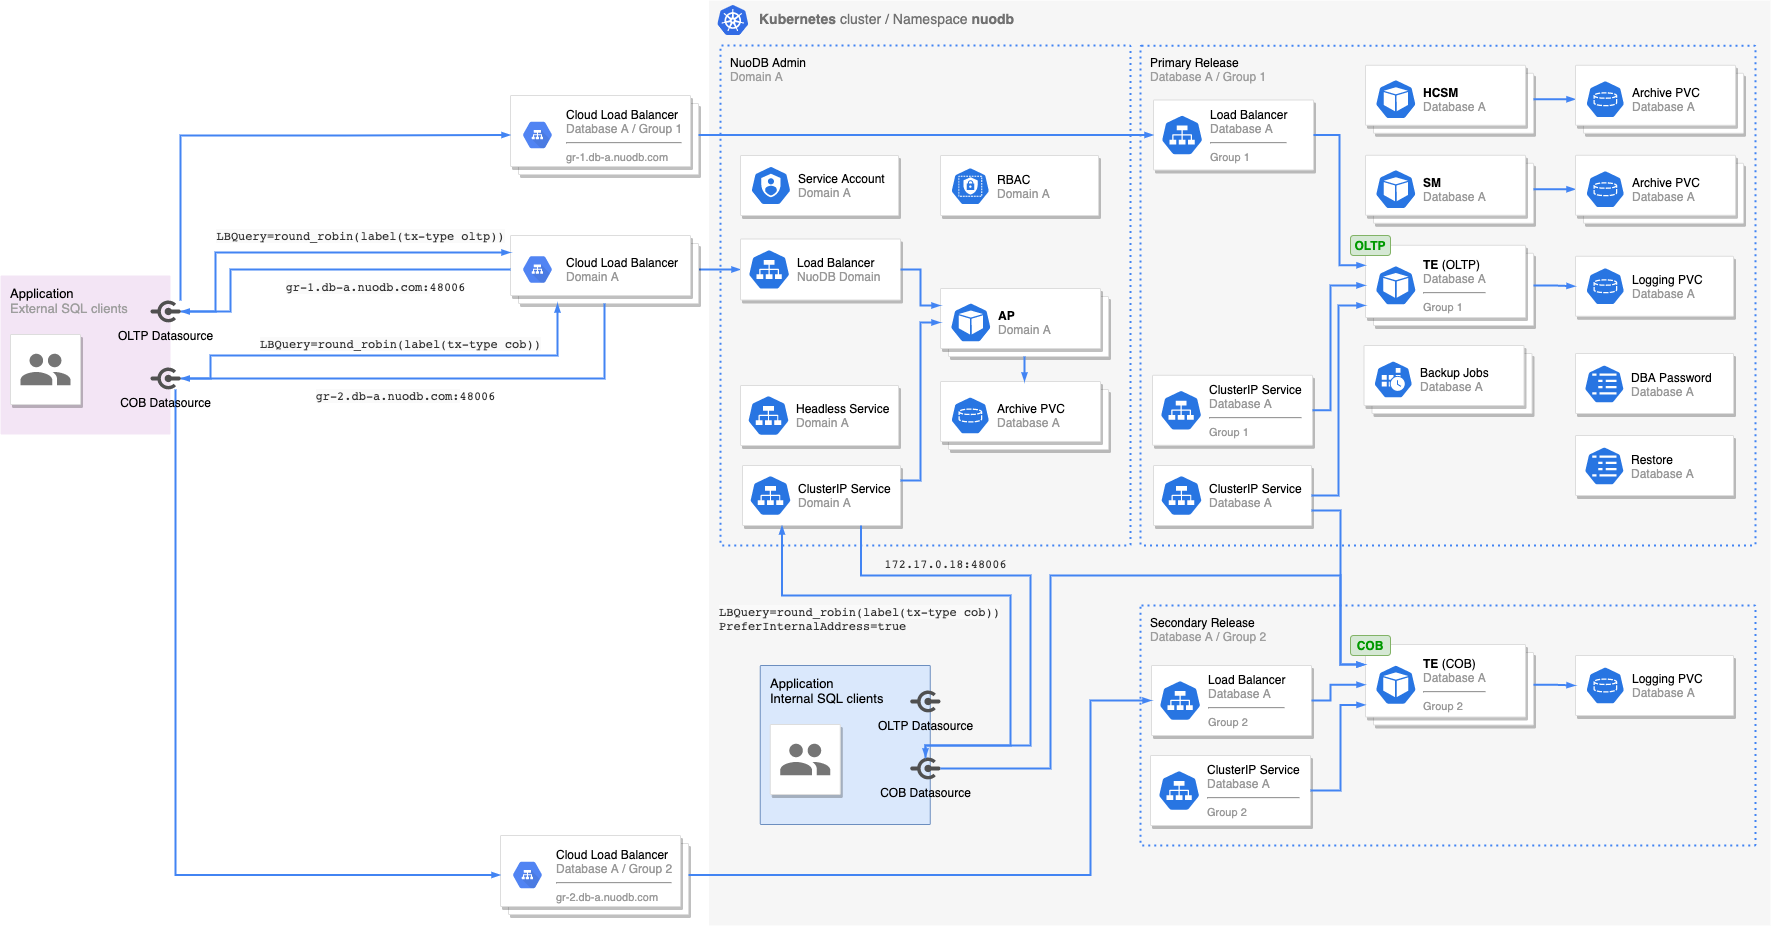
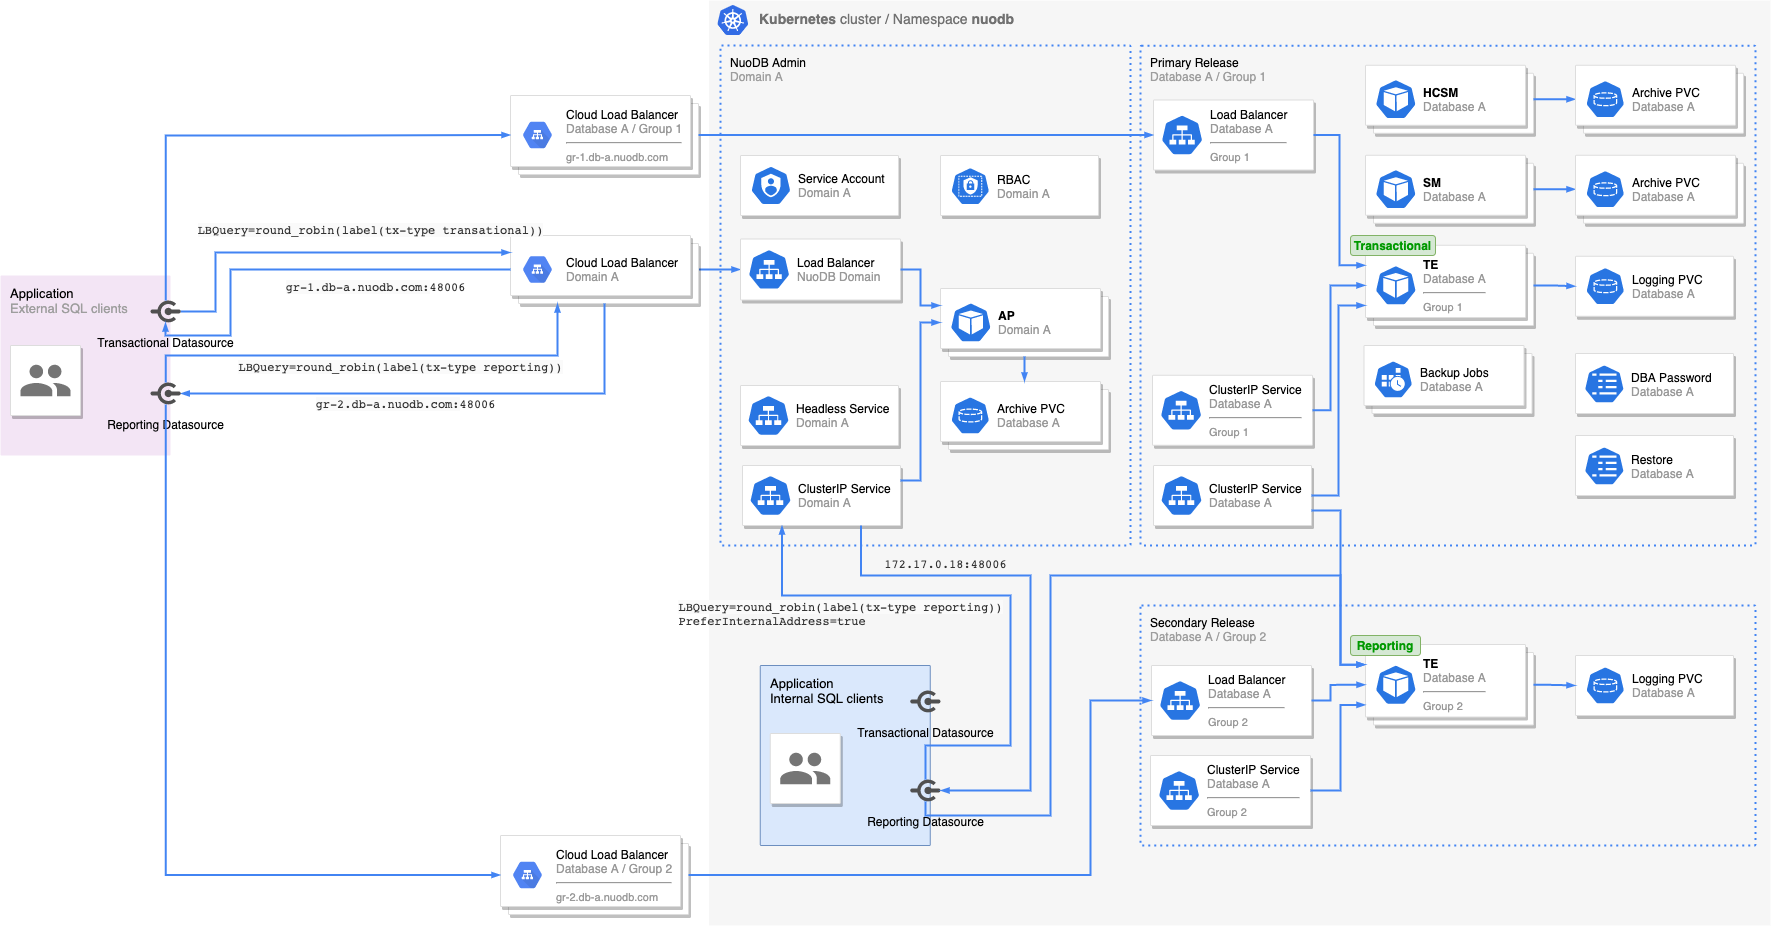
Address review comments and suggestions

diff --git a/docs/HowToConnectExternally.md b/docs/HowToConnectExternally.md
@@ -2,15 +2,18 @@
 
 ## Introduction
 
-NuoDB supports SQL interface used by the client applications to connect to the database.
-The connection protocol used by the NuoDB drivers is a two-stage process.
-First, the driver establishes a connection with the NuoDB Admin which provides the driver with Transaction Engine (TE) connection information.
-A new connection is established to the provided TE. After completing the client protocol, the connection can be used by the application to execute SQL statements.
-The two-stage connection protocol allows the configuration of flexible and rich connection load balancing rules.
-The `LBQuery` expression syntax can be used to specify the set of suitable TEs to service SQL clients and the strategy used to distribute connections to these TEs among SQL clients.
-A _direct_ connection towards TEs is also supported, however, the connection load balancing must be done by the client application.
+NuoDB supports SQL clients via a NuoDB-provided client driver such as JDBC.
+NuoDB provides a configurable internal load balancer which can direct clients to Transaction Engines (TEs) according to user-specified load balancing rules.
+This enables the administrator to direct different client workloads to different pools of TEs in order to maximize cache locality and execute certain workloads on a TE with the best configuration for that workload.
 
-For more information on NuoDB client connections, check [Client Development](https://doc.nuodb.com/nuodb/latest/client-development/).
+When a SQL client connects to a database, the driver first establishes a connection with the NuoDB Admin, which will perform load balancing and redirect the client to an appropriate TE in that database.
+Load balancing can be configured using the powerful `LBQuery` language to define the database connection strategy for routing SQL clients to the most appropriate TEs.
+
+For more information on NuoDB client connections, see [Client Development](https://doc.nuodb.com/nuodb/latest/client-development/).
+
+For more information on the LBQuery language syntax, see [Load Balancer Policies](https://doc.nuodb.com/nuodb/latest/client-development/load-balancer-policies/).
+
+A _direct_ connection to TEs is also supported by NuoDB; however, in this case load balancing must be performed by the client application.
 
 SQL clients and applications running in the same Kubernetes cluster as the NuoDB domain can connect to the database with the default NuoDB Helm Charts configuration using the NuoDB Admin `ClusterIP` service or directly using the TE `ClusterIP` service. This document focuses on external client applications running outside of the Kubernetes cluster where the NuoDB database is hosted. Allowing external access to the NuoDB database is not enabled by default and requires additional configuration.
 
@@ -23,57 +26,66 @@ Multiple deployments of the `database` chart for the same NuoDB database can be 
 One or more _secondary_ Helm releases are used to deploy additional TE groups for the same database with different configuration options.
 This allows flexible configuration of each TE group including but not limited to the number of TEs in a group, their resource requirements, process labels, and scheduling rules.
 SQL clients can be configured to target each TE group separately using NuoDB Admin load balancer rules.
-Specifying the type of the Helm `database` release is controlled by `database.primaryRelease` option (`true` by default).
+Specifying the type of the Helm `database` release is controlled by the  `database.primaryRelease` option (`true` by default).
 
 ## External Access for TE Groups
 
-External access for the NuoDB database is _not_ enabled by default and is supported when using NuoDB Helm Charts 3.4.0+ and NuoDB 4.2.4+.
-To enable external access to NuoDB domain and database set the `admin.externalAccess.enabled=true` and `database.te.externalAccess.enabled=true` options.
+External access for the NuoDB database is _not_ enabled by default.
+To enable external access to the NuoDB domain and database, set the `admin.externalAccess.enabled=true` and `database.te.externalAccess.enabled=true` options.
+Configuring external database access via the NuoDB Admin with TE groups is supported with NuoDB Helm Charts 3.4.0+ and NuoDB 4.2.4+.
+In earlier versions, it is only possible to connect to the provisioned TEs directly and bypass the NuoDB Admin.
 
 A Kubernetes service of type `LoadBalancer` or `NodePort` is created per TE group.
-The Kubernetes cluster should be properly configured so that the external network (Layer4) cloud load balancer is provisioned automatically.
 This should allow the external SQL clients to connect to the TEs backing the service by uniquely targeting each TE group.
 Most of the cloud vendors provide Kubernetes Load Balancer controllers that support different service annotations used to control the properties and configuration of the provisioned cloud load balancer.
+The Kubernetes cluster should be properly configured so that the external network (Layer4) cloud load balancer is provisioned automatically.
+For more information on additional cluster configuration, see [Cloud Provider Specifics](#cloud-provider-specifics).
 
 > **NOTE**: When external access is enabled, the NuoDB Helm Charts will create Internet-facing load balancers by default.
-This can be changed by setting the `admin.externalAccess.internalIP=true` and `database.te.externalAccess.internalIP=true` or further customized by explicitly configuring custom annotations for the Kubernetes services using `admin.externalAccess.annotations` and `database.te.externalAccess.annotations` options.
+
+If the SQL clients are located outside of the Kubernetes cluster where NuoDB is deployed but in the same cloud provider or virtual network, then it might be better to use an “internal” cloud load balancer.
+This is configured by setting the `admin.externalAccess.internalIP=true` and `database.te.externalAccess.internalIP=true` or further customized by explicitly setting custom annotations for the Kubernetes services using `admin.externalAccess.annotations` and `database.te.externalAccess.annotations` options.
 The user-provided custom annotations will overwrite the default annotations for the services.
 
-> **IMPORTANT**: It is a customer's responsibility to correctly configure security rules and restrict access to the cloud load balancers.
+> **IMPORTANT**: The customer is responsible for correctly configuring security rules and restricting access to the cloud load balancers.
 
 Services of type `NodePort` can be created as well by setting the `admin.externalAccess.type=NodePort` and `database.te.externalAccess.type=NodePort` options.
-For this type of deployment, it is required that a Layer4 load balancer is manually provisioned. It should be configured to load balance traffic across all worker nodes in the Kubernetes cluster.
+For this type of deployment, a Layer4 load balancer must be manually provisioned. It should also be configured to load balance traffic across all worker nodes in the Kubernetes cluster.
 The different TE groups will be reachable on different node ports.
 
 The external address and port for TEs are configured using the `external-address` and `external-port` process labels.
 If supplied, they will be advertised by NuoDB Admin to the SQL clients during the second stage of the client connection protocol.
-For more information, check [Use External Address](https://doc.nuodb.com/nuodb/latest/client-development/load-balancer-policies/#_use_external_address).
+For more information, see [Use External Address](https://doc.nuodb.com/nuodb/latest/client-development/load-balancer-policies/#_use_external_address).
 
-Obtaining and configuring the hostname or IP address of the L4 load balancers can be tedious and error-prone as they are provisioned asynchronously by the Kubernetes controllers.
+Obtaining and configuring the address of the L4 load balancers can be tedious and error-prone as they are provisioned asynchronously by the Kubernetes controllers.
 NuoDB can inspect the Kubernetes services and configure the TE database processes with the `external-address` and `external-port` process labels automatically if the `--enable-external-access` process option is provided.
 This simplifies the deployment and ensures the correct configuration of the TE database processes.
 
-> **NOTE**: If the hostname or the IP address of the provisioned cloud load balancer change over time, the TE database process needs to be restarted so that the new value comes into play.
+- For services of type `LoadBalancer`, NuoDB will configure the `external-address` process label with the service ingress IP or hostname as a value.
+- For services of type `NodePort` are provisioned, the customer must configure the  `external-address` and NuoDB will configure the `external-port` process label with the service node port as a value.
+If the `--enable-external-access` process option is supplied but the `external-address` process label is no defined, then external access won’t be enabled and a warning message will be logged.
+
+> **NOTE**: If either the hostname or the IP address value(s) of the provisioned cloud load balancer change, the TE database process must be restarted for the new value(s) to take effect.
 
 ## Examples
 
 To demonstrate the external access using TE groups, let's consider a working example with the following requirements:
 
-- NuoDB database is deployed in a single Kubernetes cluster.
-- Online Transaction Processing (OLTP) SQL workload should be processed by TEs in _group 1_.
-- Close of Business (COB) SQL workload should be processed by TEs in _group 2_.
+- A NuoDB database is deployed in a single Kubernetes cluster.
+- Transactional SQL workload should be processed by TEs in _group 1_.
+- Reporting SQL workload should be processed by TEs in _group 2_.
 - A set of the applications are installed in the same Kubernetes cluster as NuoDB.
 - Another set of the applications are installed in a different Kubernetes cluster, on bare metal, or in a different cloud.
 
 The resource requirements for the different TE groups may be different as there is a direct dependency on the type of SQL workload that TEs will serve.
-There will be 2 _smaller_ TEs dedicated for the _OLTP_ and 1 _bigger_ TE dedicated for the _COB_ workload deployed in _nuodb_ namespace.
+There will be 2 _smaller_ TEs dedicated for the _transactional_ and 1 _bigger_ TE dedicated for the _reporting_ workload deployed in _nuodb_ namespace.
 
-To satisfy the requirement of having several workloads targeting a different set of TEs, the `LBQuery` connection property with the correct syntax will be used.
-Alternatively, load balancer policies can be configured and SQL clients can reference them using `LBPolicy` connection property.
-For simplicity, `tx-type` database process label will be used to identify which workload is served by a set of TEs.
-The label value is either `oltp` or `cob`.
+To satisfy the requirement of having several workloads targeting a different set of TEs, the `LBQuery` connection property will be used.
+Alternatively, load balancer policies can be configured by an administrator and SQL clients can reference them using the `LBPolicy` connection property.
+For more information, see [Registering Named Load Balancer Policies](https://doc.nuodb.com/nuodb/latest/client-development/load-balancer-policies/#_registering_named_load_balancer_policies_lbpolicy).
 
-For more advanced load balancer configuration, check [Load Balancer Policies](https://doc.nuodb.com/nuodb/latest/client-development/load-balancer-policies/).
+For simplicity, the `tx-type` database process label will be used to filter which workload is served by a set of TEs using the `LBQuery` connection property.
+The label value is either `transactional` or `reporting`.
 
 NuoDB supports multi-tenant, multi-cluster, and multi-cloud database deployments using TE groups, however, for simplicity a single-cluster single-tenant deployment will be demonstrated here.
 The below diagram illustrates the deployed resources and SQL clients along with the `LBQuery` syntax.
@@ -82,7 +94,7 @@ The below diagram illustrates the deployed resources and SQL clients along with 
 
 ### Deployment
 
-The steps below will deploy NuoDB database with 2 TE groups in Google Kubernetes Engine (GKE).
+The steps below will deploy a NuoDB database with 2 TE groups in Google Kubernetes Engine (GKE).
 If you are deploying in a different environment, make sure that the correct cloud provider is set in the `cloud.provider` option.
 
 > **NOTE**: Use the `nuodb.image.tag` option to specify the NuoDB product version.
@@ -99,7 +111,7 @@ helm install admin nuodb/admin \
 ```
 
 Install the [database](../stable/database/README.md) chart for the primary Helm release which deploys TE _group 1_.
-Configure the `tx-type=oltp` label for the TEs in this group.
+Configure the `tx-type=transactional` label for the TEs in this group.
 
 ```shell
 helm install database-group1 nuodb/database \
@@ -113,11 +125,11 @@ helm install database-group1 nuodb/database \
     --set database.te.resources.limits.memory=8Gi \
     --set database.te.resources.requests.cpu=4 \
     --set database.te.resources.requests.memory=8Gi \
-    --set database.te.labels.tx-type=oltp
+    --set database.te.labels.tx-type=transactional
 ```
 
 Install the [database](../stable/database/README.md) chart for the secondary Helm release which deploys TE _group 2_.
-Configure the `tx-type=cob` label for the TEs in this group.
+Configure the `tx-type=reporting` label for the TEs in this group.
 
 ```shell
 helm install database-group2 nuodb/database \
@@ -132,7 +144,7 @@ helm install database-group2 nuodb/database \
     --set database.te.resources.limits.memory=16Gi \
     --set database.te.resources.requests.cpu=4 \
     --set database.te.resources.requests.memory=16Gi \
-    --set database.te.labels.tx-type=cob
+    --set database.te.labels.tx-type=reporting
 ```
 
 Wait for the NuoDB database to become ready:
@@ -162,21 +174,21 @@ kubectl exec -ti admin-nuodb-cluster0-0 -- nuocmd show database \
     --process-format '{type} {hostname} {node_id}'
 ```
 
-Use `nuosql`, which can be found in [NuoDB Client-only Package](https://github.com/nuodb/nuodb-client), to connect to the NuoDB database from the local machine.
+Use `nuosql`, which can be found in the [NuoDB Client-only Package](https://github.com/nuodb/nuodb-client), to connect to the NuoDB database from the local machine.
 Repeat the command several times to ensure that each time the expected node ID is printed.
 
 ```shell
 echo 'select GETNODEID() from dual;' |  nuosql demo@${DOMAIN_ADDRESS} \
     --user dba --password secret \
-    --connection-property 'LBQuery=round_robin(first(label(tx-type oltp) any))'
+    --connection-property 'LBQuery=round_robin(first(label(tx-type transactional) any))'
 ```
 
-Repeat the steps for the _COB_ workload.
+Repeat the steps for the _reporting_ workload.
 
 ```shell
 echo 'select GETNODEID() from dual;' |  nuosql demo@${DOMAIN_ADDRESS} \
     --user dba --password secret \
-    --connection-property 'LBQuery=round_robin(first(label(tx-type cob) any))'
+    --connection-property 'LBQuery=round_robin(first(label(tx-type reporting) any))'
 ```
 
 Verify that internal SQL clients can still connect to the database by setting `PreferInternalAddress=true` connection property.
@@ -185,7 +197,7 @@ Verify that internal SQL clients can still connect to the database by setting `P
 kubectl exec -ti admin-nuodb-cluster0-0 -- bash -c \
     "echo 'select GETNODEID() from dual;' |  nuosql demo@nuodb-clusterip \
         --user dba --password secret \
-        --connection-property 'LBQuery=round_robin(first(label(tx-type oltp) any))' \
+        --connection-property 'LBQuery=round_robin(first(label(tx-type transactional) any))' \
         --connection-property 'PreferInternalAddress=true'"
 ```
 
@@ -193,9 +205,13 @@ kubectl exec -ti admin-nuodb-cluster0-0 -- bash -c \
 
 ### Native CNI
 
-Most of the cloud providers have support for native Kubernetes CNI plugins which allow the Pod IPs to be assigned with IPs from the virtual network...
-
 TBD
+
+All of the managed Kubernetes offerings from cloud providers supported by the NuoDB Helm Charts (EKS, AKS, GKE) have the ability to deploy Kubernetes with a native Container Network Interface (CNI) plugin.
+This causes Kubernetes pods to be assigned IP addresses from the underlying virtual network CIDR, making them addressable by SQL clients running in the same VPC (or peered VPCs / VPN connections with the correct routing configured).
+As such, the TE IP address returned by the second stage of the client connection protocol is already addressable by the client, and it is enough to make only the Admin layer available external to the Kubernetes cluster using the `admin.externalAccess.*` values, to receive client connections.  
+
+> **NOTE**: The node security configuration may also need to explicitly allow the NuoDB TE port (48006).
 
 ### GCP
 
@@ -204,14 +220,14 @@ For more information, check [Configuring TCP/UDP load balancing](https://cloud.g
 
 ### AWS
 
-To automatically provision AWS Network Load Balancer (NLB) for Kubernetes services of type `LoadBalancer`, please follow the steps in [Network load balancing on Amazon EKS](https://docs.aws.amazon.com/eks/latest/userguide/network-load-balancing.html) guide.
+To automatically provision AWS Network Load Balancer (NLB) for Kubernetes services of type `LoadBalancer`, please follow the steps in the [Network load balancing on Amazon EKS](https://docs.aws.amazon.com/eks/latest/userguide/network-load-balancing.html) guide.
 The [AWS Load Balancer Controller](https://docs.aws.amazon.com/eks/latest/userguide/aws-load-balancer-controller.html) should be deployed in the Amazon Elastic Kubernetes Service (EKS).
 For more information on how to customize the provisioned NLB, check [Network Load Balancer](https://kubernetes-sigs.github.io/aws-load-balancer-controller/latest/guide/service/nlb/).
 
 ### Azure
 
 No additional configuration is needed to enable NuoDB database external access in Azure Kubernetes Service (AKS).
-For more information, check [Use a public Standard Load Balancer](https://docs.microsoft.com/en-us/azure/aks/load-balancer-standard).
+For more information, see [Use a public Standard Load Balancer](https://docs.microsoft.com/en-us/azure/aks/load-balancer-standard).
 
 ## Troubleshooting
 
@@ -232,19 +248,21 @@ Some of the common troubleshooting steps are listed below, however, there might 
 
 1. Verify that all AP, TE, and SM pods are reported _Ready_ using `kubectl get pods` command.
 2. Check the NuoDB domain and database using `nuocmd show domain` command.
-3. Verify the database availability inside the cluster using the same connection properties as the application uses.
-The easiest way to do that is using `nuosql` tool inside some of the AP Pods.
+3. Verify the database availability inside the cluster is using the same connection properties as the application uses.
+To verify this, use the  `nuosql` tool inside an AP Pod.
 4. Make sure that `external-address` and/or `external-port` process labels are configured correctly on the TE database processes using `nuocmd --show-json-fields hostname,labels get processes` command.
 If you are using the `--enable-external-access` process option, verify that the configured values are the same as the `EXTERNAL-IP` shown for the Kubernetes service in `kubectl get services` output.
-If the value is not the same restart the TE database process and verify again.
-5. Verify that the `LBQuery` or `LBPolicy` syntax is correct and the expected policies are configured in the NuoDB Admin using `nuocmd get load-balancers` and `nuocmd get load-balancer-config` commands.
-6. Verify that the cloud load balancer is provisioned correctly and forwards traffic to the correct Kubernetes cluster.
+If the value is not the same, restart the TE database process and verify again.
+5. Verify that the `LBQuery` or `LBPolicy` syntax is correct. If using `LBPolicy`, verify that the expected policies are configured in the NuoDB Admin using `nuocmd get load-balancers` and `nuocmd get load-balancer-config`.
+6. Check Kubernetes events for issues deploying cloud load balancers and external addresses.
+For more information on this, see the [TE does not start](#te-does-not-start) section.
+7. Verify that the cloud load balancer is provisioned and forwards traffic to the correct Kubernetes cluster.
 Check that its configuration is correct and modify the Kubernetes service annotations if needed.
-7. Verify that the configured security rules allow external access.
+8. Verify that the configured security rules allow external access.
 
 ### TE does not start
 
-TE started with `--enable-external-access` process option will wait for the `LoadBalancer` service IP address or hostname to be available before they start.
+TEs started with the `--enable-external-access` process option will wait for the `LoadBalancer` service IP address or hostname to be available before they start.
 In a case of a problem during NLB provisioning, the IP address will never be populated and the _engine_ container will fail.
 The following errors can be seen in the TE container logs:
 
